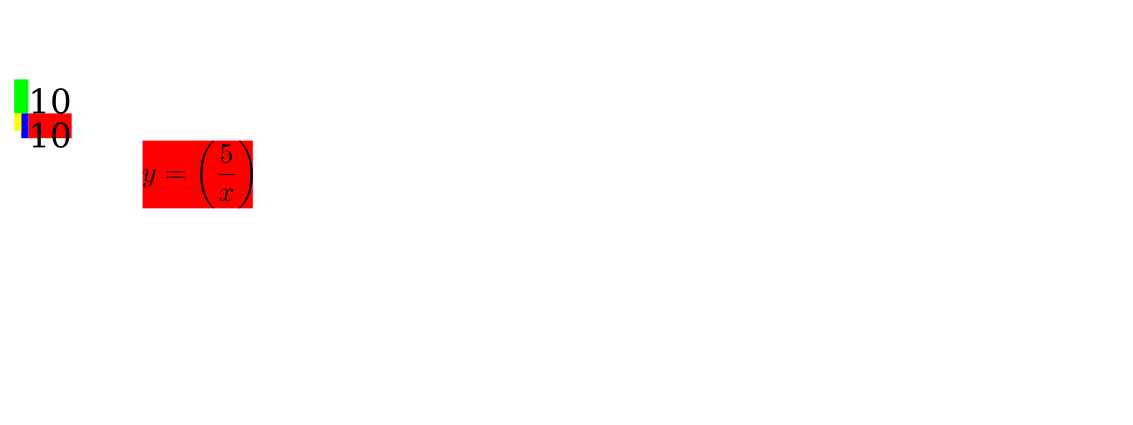
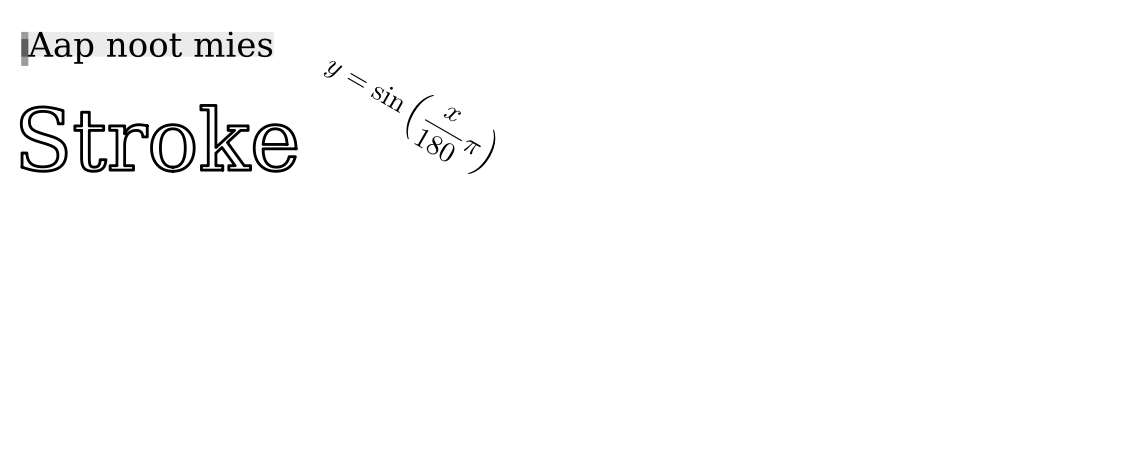
Update example

diff --git a/example/main.go b/example/main.go
@@ -66,25 +66,19 @@ func drawText(c canvas.C, x, y float64, size float64, text string) {
 	metrics := face.Metrics()
 	w, h := face.Bounds(text)
 
-	c.SetColor(canvas.Red)
-	c.DrawPath(x, y, canvas.Rectangle(0, 0, w, h))
-	c.SetColor(canvas.Lime)
-	c.DrawPath(x, y, canvas.Rectangle(0, 0, -5.0, -12.0))
-	c.SetColor(canvas.Blue)
-	c.DrawPath(x, y, canvas.Rectangle(0, 0, -2.5, metrics.CapHeight))
-	c.SetColor(canvas.Yellow)
-	c.DrawPath(x, y, canvas.Rectangle(-2.5, 0, -2.5, metrics.XHeight))
+	c.SetColor(color.RGBA{0, 0, 0, 20})
+	c.DrawPath(x, y, canvas.Rectangle(0, 0, w, -h))
+	c.SetColor(color.RGBA{0, 0, 0, 100})
+	c.DrawPath(x, y, canvas.Rectangle(0, -metrics.CapHeight, -2.5, 12.0))
+	c.DrawPath(x, y, canvas.Rectangle(0, 0, -2.5, -metrics.XHeight))
 
 	c.SetColor(canvas.Black)
 	c.SetFont(face)
 	c.DrawText(x, y, text)
-
-	p := face.ToPath(text)
-	c.DrawPath(x, y+size, p)
 }
 
 func Draw(c canvas.C) {
-	c.Open(400, 150)
+	c.Open(400, 160)
 
 	//drawStrokedPath(c, 5, 20, "C0 -20 20 -20 20 0z")
 	//drawStrokedPath(c, 30, 20, "C10 -20 10 -20 20 0z")
@@ -95,15 +89,22 @@ func Draw(c canvas.C) {
 	//drawStrokedPath(c, 80, 50, "C0 0 0 -20 0 0z")
 	//drawStrokedPath(c, 80, 50, "C0 0 0 0 0 0z")
 
-	drawText(c, 10, 40, 12.0, "10")
+	drawText(c, 10, 20, 12.0, "Aap noot mies")
 
-	latex, err := canvas.ParseLaTeX(`$y = \left(\frac{5}{x}\right)$`)
+	font, err := c.Font("DejaVuSerif")
+	if err != nil {
+		panic(err.Error())
+	}
+	face := font.Face(30)
+	c.SetFont(face)
+	p := face.ToPath("Stroke")
+	c.DrawPath(5, 60, p.Stroke(1, canvas.RoundCapper, canvas.RoundJoiner, 0.01))
+
+	latex, err := canvas.ParseLaTeX(`$y = \sin\left(\frac{x}{180}\pi\right)$`)
 	if err != nil {
 		panic(err)
 	}
-	bounds := latex.Bounds()
-	c.SetColor(canvas.Red)
-	c.DrawPath(50, 50, canvas.Rectangle(bounds.X, bounds.Y, bounds.W, bounds.H))
+	latex.Rotate(-30, 0, 0)
 	c.SetColor(canvas.Black)
-	c.DrawPath(50, 50, latex)
+	c.DrawPath(120, 15, latex)
 }

diff --git a/README.md b/README.md
@@ -77,7 +77,7 @@ p.Stroke(width, capper, joiner, tolerance) // create a stroke from a path of cer
 ## Example
 See https://github.com/tdewolff/canvas/tree/master/example for a working example, including fonts. Note that for PDFs you need to pre-compile fonts using `makefont` installed by `go install github.com/jung-kurt/gofpdf/makefont` and then compile them by running `makefont --embed --enc=cp1252.map DejaVuSerif.ttf`.
 
-![Example][https://raw.githubusercontent.com/tdewolff/canvas/master/example/example.png]
+![Example](https://raw.githubusercontent.com/tdewolff/canvas/master/example/example.png)
 
 ## License
 Released under the [MIT license](LICENSE.md).
